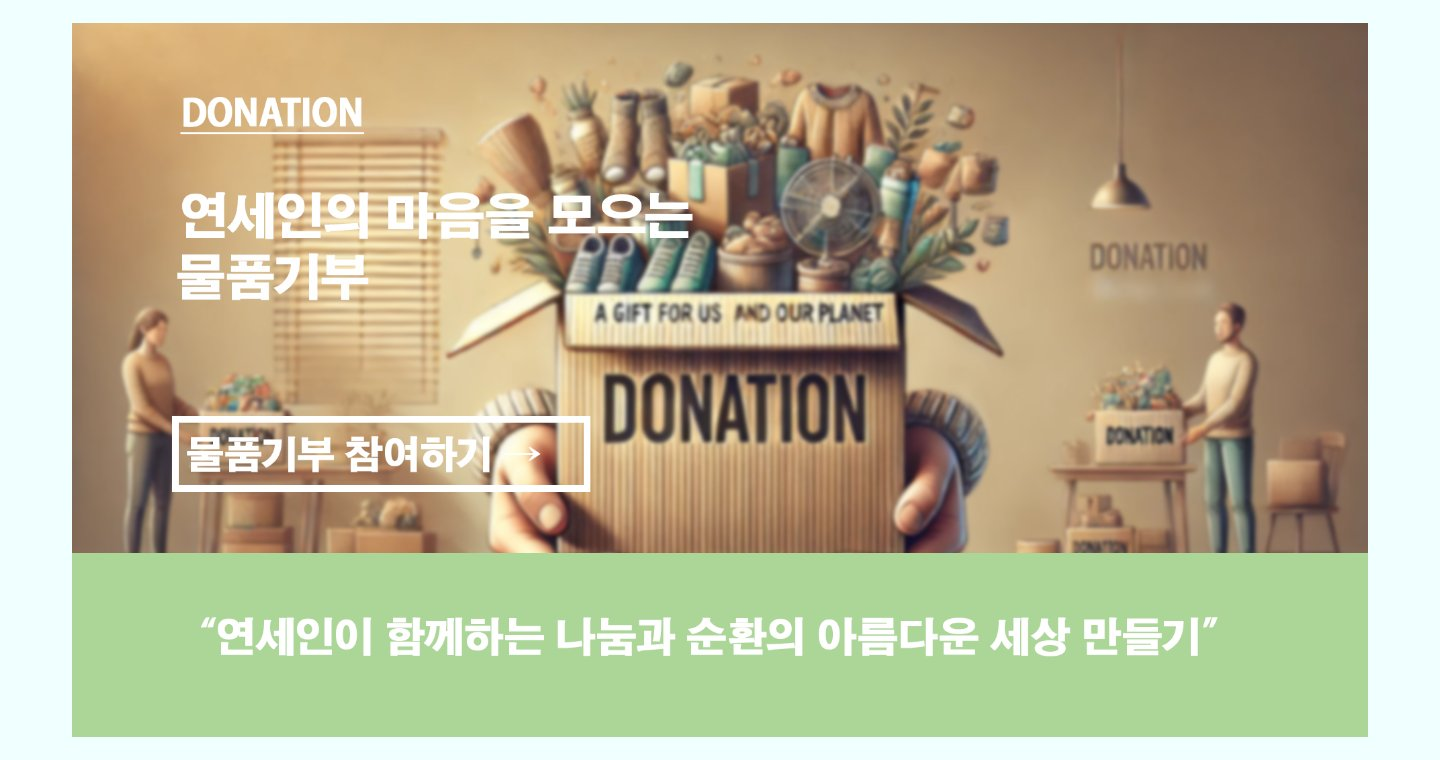
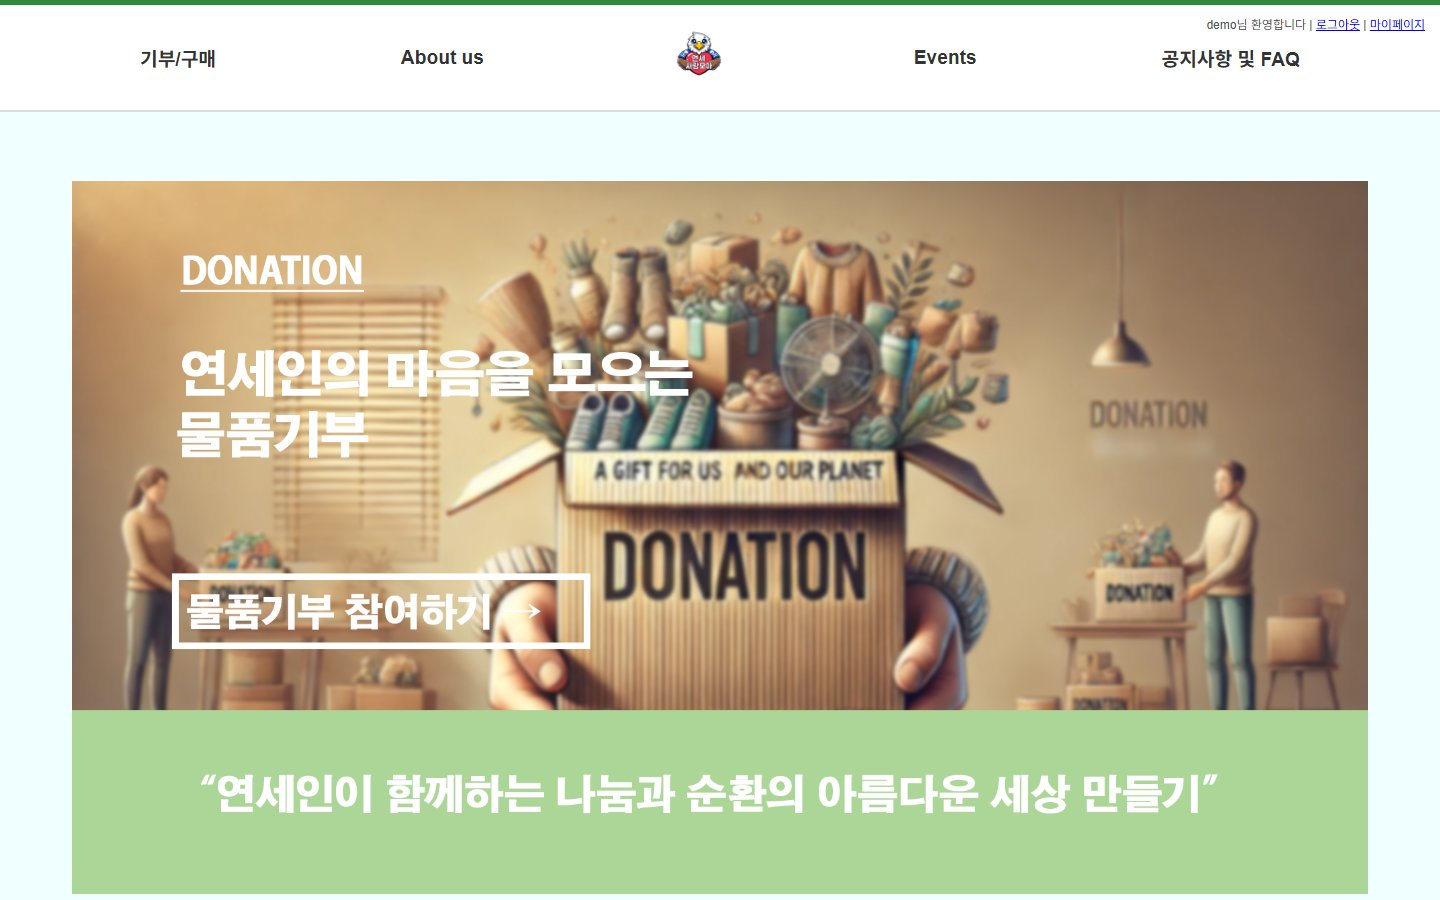
mdf:sarangmoa project screenshots and description

diff --git a/src/app/templates/projects.html b/src/app/templates/projects.html
@@ -1359,10 +1359,14 @@
                         <button type="button" data-bs-target="#carouselExampleIndicators_sarangmoa" data-bs-slide-to="7" aria-label="Slide 8"></button>
                         <button type="button" data-bs-target="#carouselExampleIndicators_sarangmoa" data-bs-slide-to="8" aria-label="Slide 9"></button>
                         <button type="button" data-bs-target="#carouselExampleIndicators_sarangmoa" data-bs-slide-to="9" aria-label="Slide 10"></button>
+                        <button type="button" data-bs-target="#carouselExampleIndicators_sarangmoa" data-bs-slide-to="10" aria-label="Slide 11"></button>
                       </div>
                       <div class="carousel-inner">
                         <div class="carousel-item active">
                           <img src="/static/images/sarangmoa_main.jpg" class="d-block w-100" alt="Main page">
+                        </div>
+                        <div class="carousel-item">
+                          <img src="/static/images/sarangmoa_main_sections.jpg" class="d-block w-100" alt="Main page good examples and monthly items">
                         </div>
                         <div class="carousel-item">
                           <img src="/static/images/sarangmoa_category.jpg" class="d-block w-100" alt="Donated items by category">
@@ -1419,25 +1423,29 @@
                     <li>Recruits volunteers and issues volunteer points and certificates.</li>
                 </ul>
 
-                <h4 data-lang="ko">담당 구현</h4>
-                <h4 data-lang="en">My Part</h4>
+                <h4 data-lang="ko">주요 구현</h4>
+                <h4 data-lang="en">Key Features</h4>
                 <ul class="point-list" data-lang="ko">
                     <li>세션 기반 로그인·회원가입, 재학증명서 이미지 업로드를 통한 가입 인증.</li>
-                    <li><span class="highlight">관리자 페이지</span> — 유저 승인/반려, 기부 물품 승인·반려·취소 등 상품 상태 관리.</li>
+                    <li><span class="highlight">권한 등급별 접근 제어</span> — 미승인·승인 회원·관리자 3단계 권한을 설계해, 재학증명서 검증 후 관리자 승인을 받은 회원만 구매 가능하고 관리자 메뉴는 관리자 등급에만 노출.</li>
+                    <li><span class="highlight">기부 물품 상태 관리 워크플로우</span> — 신청 → 승인/반려 → 판매 완료 → 삭제로 이어지는 상태 전이를 설계하고, 승인·반려 취소 시 신청 상태로 되돌리는 관리자 검수 프로세스 구현.</li>
                     <li>공지사항·이벤트·좋은 사례 게시물 CRUD 관리 기능.</li>
                     <li>카테고리별 상품 조회 및 페이지네이션 JSON API (AJAX 연동).</li>
                     <li>결제 처리 — 구매 내역 저장 및 판매 완료 상태 변경, 마일리지 잔액 검증 후 차감하는 이벤트 응모.</li>
+                    <li>기부 신청(물품 이미지 업로드), 마이페이지 구매·기부 내역, 봉사활동 확인서 발급 페이지.</li>
                 </ul>
                 <ul class="point-list" data-lang="en">
                     <li>Session-based login and sign-up, verified with an uploaded enrollment certificate image.</li>
-                    <li><span class="highlight">Admin page</span> — approve/reject users and manage donated item status (approve, reject, cancel).</li>
+                    <li><span class="highlight">Role-based access control</span> — designed three permission levels (pending, approved member, admin); only members verified by enrollment certificate and approved by an admin can purchase, and admin menus are shown to admins only.</li>
+                    <li><span class="highlight">Donated item status workflow</span> — designed the state flow (requested → approved/rejected → sold → deleted) with an admin review process that can roll approvals or rejections back to requested.</li>
                     <li>CRUD management for notices, events, and good-example posts.</li>
                     <li>JSON API for category-filtered, paginated item listing (used via AJAX).</li>
                     <li>Payment handling — saves purchases and marks items sold; event entry that checks and deducts mileage.</li>
+                    <li>Donation form with item image upload, my page with purchase/donation history, and volunteer certificate page.</li>
                 </ul>
 
                 <p class="project-meta">GitHub: <a href="https://github.com/lkh599810/Yonsei_SarangMoa">lkh599810/Yonsei_SarangMoa</a> · Django, SQLite, jQuery</p>
-                <p class="project-meta"><span data-lang="ko">기간: 2024.11 ~ 2024.12 · 인원: 4 · 학교 팀 프로젝트</span><span data-lang="en">Period: 2024.11 ~ 2024.12 · Team: 4 · University team project</span></p>
+                <p class="project-meta"><span data-lang="ko">기간: 2024.11 ~ 2024.12 · 학교 프로젝트</span><span data-lang="en">Period: 2024.11 ~ 2024.12 · University project</span></p>
             </div>
         </section>
     </div>
